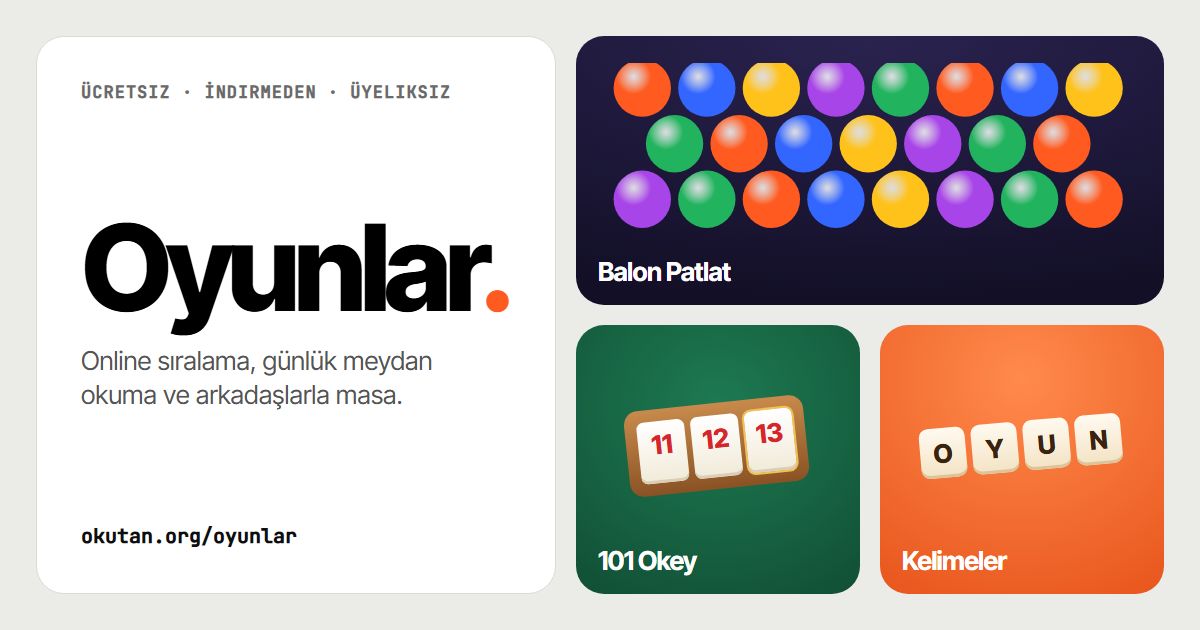
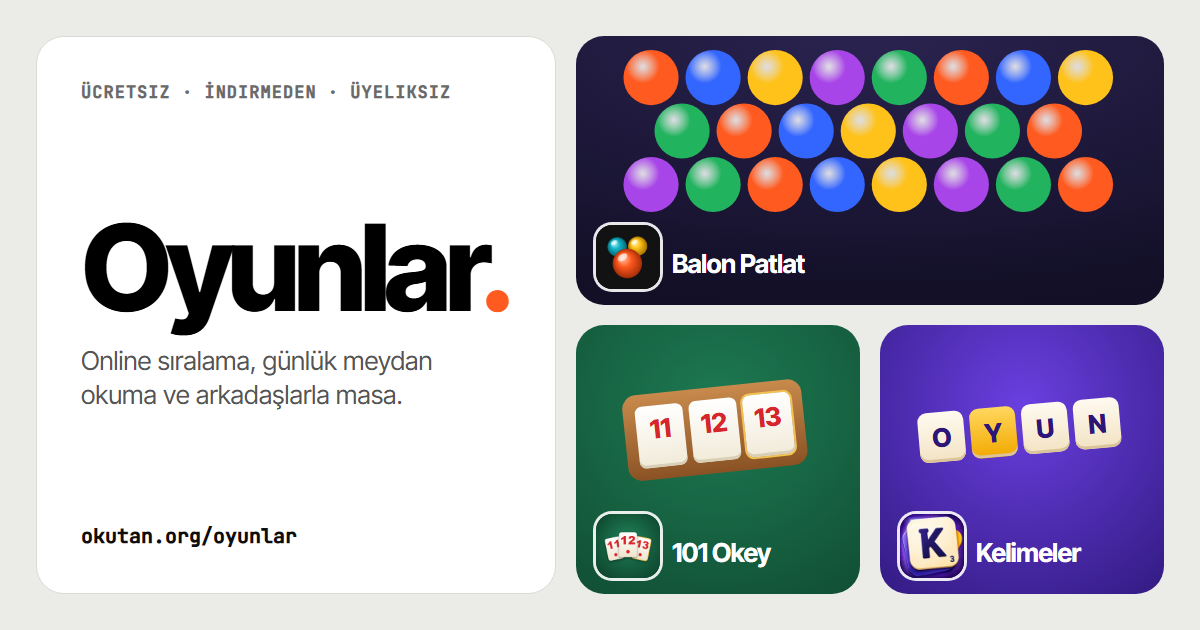
Oyunlar sayfası: gerçek uygulama simgeleri, simge kümesi, çizgi ikonlar, platform rozetleri, Kelimeler mor tema, toplam sayılar, yeni paylaşım görseli

Changed region(s): [[0.4933, 0.0603, 0.9558, 0.4825], [0.7092, 0.5127, 0.9867, 0.9651], [0.4933, 0.6032, 0.6783, 0.9349]]

diff --git a/oyunlar/index.html b/oyunlar/index.html
@@ -115,17 +115,41 @@ button{font:inherit;color:inherit}
 .intro h1 span{color:var(--accent)}
 .intro p{font-size:17px;color:var(--muted);max-width:520px}
 .facts{display:flex;gap:8px;flex-wrap:wrap}
-.facts span{font:600 12px var(--mono);padding:7px 11px;border-radius:999px;border:1px solid var(--line);background:var(--bg)}
+.facts span{display:inline-flex;align-items:center;gap:7px;font:600 12px var(--mono);padding:7px 12px 7px 10px;border-radius:999px;border:1px solid var(--line);background:var(--bg)}
+.i{width:16px;height:16px;flex:none;fill:none;stroke:currentColor;stroke-width:1.9;stroke-linecap:round;stroke-linejoin:round}
+.facts .i{color:var(--accent)}
+.i.st{fill:var(--gold);stroke:var(--gold);width:14px;height:14px}
+/* giriş simge kümesi */
+.intro{min-height:340px}
+.intro > *{position:relative}
+.intro > div:nth-child(2){min-height:200px}
+.cluster{position:absolute!important;right:30px;top:26px;width:250px;height:200px}
+.ci{position:absolute;width:104px;height:104px;border-radius:26px;overflow:hidden;box-shadow:0 22px 34px -18px rgba(0,0,0,.55),0 0 0 1px rgba(0,0,0,.06);transition:transform .4s cubic-bezier(.3,1.5,.5,1)}
+.ci img{width:100%;height:100%;display:block}
+.c1{left:0;top:62px;transform:rotate(-12deg);z-index:1}
+.c2{left:70px;top:6px;transform:rotate(6deg);z-index:2;width:118px;height:118px;border-radius:30px}
+.c3{left:146px;top:84px;transform:rotate(14deg);z-index:3}
+.cluster:hover .c1{transform:rotate(-4deg) translate(-8px,-6px)}.cluster:hover .c2{transform:rotate(0) translateY(-10px)}.cluster:hover .c3{transform:rotate(4deg) translate(8px,-4px)}
+.fx{position:absolute;font-style:normal;animation:fl 4s ease-in-out infinite}
+.f1{width:22px;height:22px;border-radius:50%;left:-16px;top:16px;background:radial-gradient(circle at 35% 30%,#fff,#ff8a5c 30%,#ff5a1f 65%);animation-delay:-1s}
+.f2{width:14px;height:14px;border-radius:50%;left:222px;top:6px;background:radial-gradient(circle at 35% 30%,#fff,#5fd3ff 30%,#12b4c8 65%);animation-delay:-2.5s}
+.f3{left:206px;top:196px;width:22px;height:30px;border-radius:5px;background:linear-gradient(#fff,#efe6d0);box-shadow:0 0 0 1.5px #f2c14e,0 6px 10px -4px rgba(0,0,0,.4);color:#1f4fd6;font:900 14px/30px var(--sans);text-align:center;rotate:12deg}
+.f4{left:44px;top:184px;width:26px;height:28px;border-radius:7px;background:linear-gradient(#fffaf0,#f3e3c4);box-shadow:0 6px 10px -4px rgba(0,0,0,.4);color:#2c1677;font:900 15px/28px var(--sans);text-align:center;animation-delay:-1.8s}
+@keyframes fl{50%{translate:0 -8px}}
 .pulse{background:#111;color:#f4f4f2;border-color:#222;display:flex;flex-direction:column;gap:14px;padding:26px}
 :root[data-theme="dark"] .pulse{background:#1a1a1a}
 .pulse .label{color:#9a9a9a}
 .pulse h2{font-size:22px;font-weight:800;letter-spacing:-.03em}
 .pl{list-style:none;display:flex;flex-direction:column;gap:8px}
 .pl li{display:grid;grid-template-columns:42px minmax(0,1fr) auto;gap:12px;align-items:center;padding:10px 12px;border-radius:14px;background:rgba(255,255,255,.05);border:1px solid rgba(255,255,255,.08)}
-.pl .ic{width:42px;height:42px;border-radius:12px;display:flex;align-items:center;justify-content:center;font-size:20px}
+.pl .ic{width:42px;height:42px;border-radius:11px;display:block;box-shadow:0 0 0 1px rgba(255,255,255,.1)}
 .pl b{display:block;font-size:14.5px}
 .pl small{display:block;font-size:12.5px;color:#a8a8a8;overflow:hidden;text-overflow:ellipsis;white-space:nowrap}
-.pl .v{font:700 13px var(--mono);color:var(--gold);white-space:nowrap}
+.pl .v{display:inline-flex;align-items:center;gap:4px;font:700 13px var(--mono);color:var(--gold);white-space:nowrap}
+.tot{margin-top:auto;display:grid;grid-template-columns:repeat(3,1fr);gap:8px;padding-top:6px}
+.tot div{display:flex;flex-direction:column;gap:2px;padding:12px;border-radius:14px;background:linear-gradient(160deg,rgba(255,90,31,.22),rgba(255,90,31,.04));border:1px solid rgba(255,90,31,.25)}
+.tot b{font-size:26px;font-weight:800;letter-spacing:-.03em;line-height:1}
+.tot span{font:500 10.5px var(--mono);text-transform:uppercase;letter-spacing:.05em;color:#a8a8a8}
 .dot{display:inline-block;width:8px;height:8px;border-radius:50%;background:#3ddc84;margin-right:6px;box-shadow:0 0 0 0 rgba(61,220,132,.6);animation:dp 1.8s infinite}
 @keyframes dp{70%{box-shadow:0 0 0 8px rgba(61,220,132,0)}100%{box-shadow:0 0 0 0 rgba(61,220,132,0)}}
 
@@ -136,17 +160,24 @@ button{font:inherit;color:inherit}
 .g{display:flex;flex-direction:column;padding:0;overflow:hidden;transition:transform .25s,border-color .25s,box-shadow .25s}
 .g:hover{transform:translateY(-4px);border-color:var(--ink);box-shadow:0 24px 40px -28px rgba(0,0,0,.45)}
 .art{height:220px;position:relative;display:flex;align-items:center;justify-content:center;overflow:hidden}
-.g .body{padding:22px 22px 20px;display:flex;flex-direction:column;gap:10px;flex:1}
+.g .body{padding:0 22px 20px;display:flex;flex-direction:column;gap:10px;flex:1}
+.head{display:flex;align-items:flex-end;gap:14px;margin-top:-30px;position:relative}
+.head .app{width:76px;height:76px;border-radius:20px;flex:none;border:4px solid var(--block);box-shadow:0 12px 22px -12px rgba(0,0,0,.6);background:var(--block);transition:transform .35s cubic-bezier(.3,1.5,.5,1)}
+.g:hover .head .app{transform:rotate(-6deg) scale(1.06)}
+.head > div{padding-bottom:2px;min-width:0}
+.head .label{font-size:11px}
 .g h3{font-size:26px;font-weight:800;letter-spacing:-.04em;line-height:1.05}
 .g p{color:var(--muted);font-size:15px}
-.feats{list-style:none;display:flex;flex-direction:column;gap:5px;font-size:14px}
-.feats li{display:flex;gap:8px}
-.feats li::before{content:"";flex:none;width:6px;height:6px;border-radius:50%;background:var(--accent);margin-top:9px}
-.live{font:600 12.5px var(--mono);color:var(--ok);min-height:19px}
+.feats{list-style:none;display:flex;flex-direction:column;gap:7px;font-size:14px}
+.feats li{display:flex;gap:10px;align-items:center}
+.feats .i{width:28px;height:28px;padding:6px;border-radius:9px;background:color-mix(in srgb,var(--accent) 12%,transparent);color:var(--accent);stroke-width:2}
+.live{display:flex;align-items:center;gap:6px;font:600 12.5px var(--mono);color:var(--ok);min-height:19px}
 .cta{margin-top:auto;display:flex;justify-content:space-between;align-items:center;gap:10px;padding-top:6px}
 .play{display:inline-flex;align-items:center;gap:8px;height:44px;padding:0 18px;border-radius:12px;background:var(--ink);color:var(--block);font-weight:700;font-size:15px;transition:background .2s}
+.play b{transition:transform .25s}.g:hover .play b{transform:translateX(4px)}
 .g:hover .play{background:var(--accent);color:#fff}
-.plat{font:500 11.5px var(--mono);color:var(--muted);text-transform:uppercase;letter-spacing:.05em;text-align:right}
+.plat{display:inline-flex;gap:6px;color:var(--muted)}
+.plat .i{width:34px;height:34px;padding:8px;border-radius:10px;border:1px solid var(--line);stroke-width:1.7}
 
 /* Balon sanatı */
 .art.bp{background:radial-gradient(120% 100% at 50% 0%,#2a2350,#120f26)}
@@ -164,27 +195,25 @@ button{font:inherit;color:inherit}
 .ot.k{color:#d7262b}.ot.m{color:#1f4fd6}.ot.s{color:#e98b00}.ot.y{color:#16171b}
 .ot.j{box-shadow:inset 0 -3px 0 #d9cfb6,0 0 0 2px #f2c14e,0 0 12px rgba(242,193,78,.6)}
 /* Kelimeler sanatı */
-.art.kl{background:radial-gradient(120% 120% at 50% 20%,#ff8a4c,#e2470f)}
+.art.kl{background:radial-gradient(90% 100% at 50% 30%,#6a3fe0,#2c1677)}
+.art.kl::before{content:"";position:absolute;inset:-50%;background:repeating-conic-gradient(from 0deg at 50% 45%,rgba(255,255,255,.07) 0 6deg,transparent 6deg 18deg)}
 .word{display:flex;gap:6px;transform:rotate(-4deg);transition:transform .35s}
 .word + .word{margin-top:8px;transform:rotate(-4deg) translateX(28px)}
 .g:hover .word{transform:rotate(0)}
 .g:hover .word + .word{transform:translateX(28px)}
-.lt{width:44px;height:48px;border-radius:9px;background:linear-gradient(#fffaf0,#f3e3c4);box-shadow:inset 0 -3px 0 #dcc49a,0 6px 12px -6px rgba(0,0,0,.5);display:flex;align-items:center;justify-content:center;position:relative;font:900 24px var(--sans);color:#3a2410}
+.lt{width:44px;height:48px;border-radius:9px;background:linear-gradient(#fffaf0,#f3e3c4);box-shadow:inset 0 -3px 0 #dcc49a,0 8px 14px -6px rgba(0,0,0,.6);display:flex;align-items:center;justify-content:center;position:relative;font:900 24px var(--sans);color:#2c1677}
+.lt.y{background:linear-gradient(#ffd75e,#f2a900);box-shadow:inset 0 -3px 0 #c98a00,0 8px 14px -6px rgba(0,0,0,.6)}
 .lt sup{position:absolute;right:5px;bottom:4px;font:700 10px var(--mono)}
-.kl-in{display:flex;flex-direction:column;align-items:flex-start}
-.appic{position:absolute;right:16px;top:16px;width:46px;height:46px;border-radius:12px;box-shadow:0 6px 16px -6px rgba(0,0,0,.5)}
+.kl-in{display:flex;flex-direction:column;align-items:flex-start;position:relative}
 
-/* küçük simgeler */
-.mb{width:22px;height:22px;border-radius:50%;background:radial-gradient(circle at 35% 30%,#fff 0,#ff8a5c 25%,#ff5a1f 60%);box-shadow:0 2px 4px rgba(0,0,0,.4)}
-.mb.big{width:32px;height:32px;box-shadow:13px -8px 0 -6px #ffc21a,-13px -8px 0 -6px #3366ff}
-.mt{width:20px;height:27px;border-radius:4px;background:linear-gradient(#fff,#efe6d0);color:#d7262b;font:900 12px/27px var(--sans);font-style:normal;text-align:center;box-shadow:0 0 0 1.5px #f2c14e}
-.mt.big{width:30px;height:40px;font-size:19px;line-height:40px;border-radius:6px}
-.ml{width:24px;height:26px;border-radius:6px;background:linear-gradient(#fffaf0,#f3e3c4);color:#3a2410;font:900 15px/26px var(--sans);font-style:normal;text-align:center}
 /* günlük */
 .daily{display:grid;grid-template-columns:repeat(2,minmax(0,1fr));gap:var(--gap)}
 .dc{display:grid;grid-template-columns:64px minmax(0,1fr) auto;gap:16px;align-items:center;transition:border-color .2s}
 .dc:hover{border-color:var(--ink)}
-.dc .ic{width:64px;height:64px;border-radius:16px;display:flex;align-items:center;justify-content:center;font-size:30px}
+.dc .ic{width:64px;height:64px;position:relative;display:block}
+.dc .ic img{width:64px;height:64px;border-radius:16px;display:block;box-shadow:0 10px 18px -10px rgba(0,0,0,.5)}
+.dd{position:absolute;right:-8px;bottom:-8px;width:30px;height:32px;border-radius:8px;background:var(--block);border:1px solid var(--line);box-shadow:0 4px 10px -4px rgba(0,0,0,.35);font:800 13px/1 var(--sans);font-style:normal;display:flex;align-items:flex-end;justify-content:center;padding-bottom:5px;overflow:hidden}
+.dd::before{content:"";position:absolute;left:0;right:0;top:0;height:8px;background:var(--accent)}
 .dc h3{font-size:19px;font-weight:800;letter-spacing:-.02em}
 .dc p{font-size:14px;color:var(--muted)}
 .dc .go{font:700 13px var(--mono);padding:9px 12px;border-radius:10px;border:1px solid var(--line);white-space:nowrap}
@@ -209,15 +238,16 @@ footer nav{display:flex;gap:16px;flex-wrap:wrap}
 footer a:hover{color:var(--ink)}
 
 @media (max-width:980px){.games{grid-template-columns:1fr 1fr}.games .g:last-child{grid-column:span 2}.games .g:last-child .art{height:180px}}
-@media (max-width:860px){.hero{grid-template-columns:1fr}.faq{grid-template-columns:1fr;gap:16px}}
+@media (max-width:860px){.hero{grid-template-columns:1fr}.intro{min-height:0}.faq{grid-template-columns:1fr;gap:16px}}
 @media (max-width:640px){
   .games{grid-template-columns:1fr}.games .g:last-child{grid-column:auto}
   .daily{grid-template-columns:1fr}
   .intro{padding:26px 22px}.faq{padding:22px}
-  .dc{grid-template-columns:52px minmax(0,1fr)}.dc .ic{width:52px;height:52px;font-size:24px}.dc .go{grid-column:1 / -1;text-align:center}
+  .dc{grid-template-columns:52px minmax(0,1fr)}.dc .ic,.dc .ic img{width:52px;height:52px}.dc .go{grid-column:1 / -1;text-align:center}
   .crumb{display:none}
   .sh h2{font-size:24px}
 }
+@media (max-width:640px){.cluster{position:relative!important;right:auto;top:auto;margin:0 auto -10px}.intro > div:nth-child(2){min-height:0}}
 @media (max-width:400px){.kl-in{transform:scale(.8)}.appic{width:38px;height:38px}}
 @media (prefers-reduced-motion:reduce){*{animation:none!important;transition:none!important}}
 </style>
@@ -235,21 +265,28 @@ footer a:hover{color:var(--ink)}
   <main>
     <section class="hero">
       <div class="b intro">
+        <div class="cluster" aria-hidden="true">
+          <a class="ci c1" href="/balon/" tabindex="-1"><img src="/balon/icon-192.png" width="96" height="96" alt="" decoding="async"></a>
+          <a class="ci c2" href="/101-okey/" tabindex="-1"><img src="/101-okey/icon-192.png" width="96" height="96" alt="" decoding="async"></a>
+          <a class="ci c3" href="/kelimeler/" tabindex="-1"><img src="/kelimeler/img/app-icon.webp" width="96" height="96" alt="" decoding="async"></a>
+          <i class="fx f1"></i><i class="fx f2"></i><i class="fx f3">7</i><i class="fx f4">A</i>
+        </div>
         <div>
           <div class="label">Ücretsiz · İndirmeden · Üyeliksiz</div>
           <h1 style="margin-top:14px">Oyunlar<span>.</span></h1>
         </div>
         <p>Kendi geliştirdiğim oyunlar. Tarayıcıda hemen aç, adını yaz, sıralamaya gir. Her gün yeni bir meydan okuma, arkadaşlarınla online masa ve Türkçe kelime düelloları.</p>
-        <div class="facts"><span>3 oyun</span><span>Online sıralama</span><span>Günlük meydan okuma</span><span>Telefona kurulur</span></div>
+        <div class="facts"><span><svg class="i" viewBox="0 0 24 24" aria-hidden="true"><path d="M12 3v11M7.5 9.5 12 14l4.5-4.5M4 17v2.5A1.5 1.5 0 0 0 5.5 21h13a1.5 1.5 0 0 0 1.5-1.5V17"/><path d="M3 3l18 18"/></svg>İndirme yok</span><span><svg class="i" viewBox="0 0 24 24" aria-hidden="true"><circle cx="12" cy="8" r="4"/><path d="M4 21a8 8 0 0 1 16 0"/></svg>Üyelik yok</span><span><svg class="i" viewBox="0 0 24 24" aria-hidden="true"><path d="M8 21h8M12 17v4M7 4h10v5a5 5 0 0 1-10 0V4zM17 5h3v2a3 3 0 0 1-3 3M7 5H4v2a3 3 0 0 0 3 3"/></svg>Online sıralama</span><span><svg class="i" viewBox="0 0 24 24" aria-hidden="true"><rect x="3" y="5" width="18" height="16" rx="2.5"/><path d="M3 10h18M8 3v4M16 3v4"/></svg>Günlük meydan okuma</span><span><svg class="i" viewBox="0 0 24 24" aria-hidden="true"><rect x="6.5" y="2" width="11" height="20" rx="2.8"/><path d="M12 7v7M9 11l3 3 3-3"/></svg>Telefona kurulur</span></div>
       </div>
       <aside class="b pulse" aria-labelledby="pulseTitle">
         <div class="label"><span class="dot" aria-hidden="true"></span>Şu an</div>
         <h2 id="pulseTitle">Oyunlarda neler oluyor?</h2>
         <ul class="pl">
-          <li><span class="ic" style="background:#2a2350"><i class="mb"></i></span><span><b>Balon Patlat</b><small id="pBp">Yükleniyor…</small></span><span class="v" id="pBpV"></span></li>
-          <li><span class="ic" style="background:#145c3d"><i class="mt">13</i></span><span><b>101 Okey</b><small id="pOk">Yükleniyor…</small></span><span class="v" id="pOkV"></span></li>
-          <li><span class="ic" style="background:#e2470f"><i class="ml">K</i></span><span><b>Kelimeler</b><small>iOS ve Android · Şehir Savaşları</small></span><span class="v">★ 4.8</span></li>
+          <li><img class="ic" src="/balon/icon-192.png" width="96" height="96" alt="" decoding="async"><span><b>Balon Patlat</b><small id="pBp">Yükleniyor…</small></span><span class="v" id="pBpV"></span></li>
+          <li><img class="ic" src="/101-okey/icon-192.png" width="96" height="96" alt="" decoding="async"><span><b>101 Okey</b><small id="pOk">Yükleniyor…</small></span><span class="v" id="pOkV"></span></li>
+          <li><img class="ic" src="/kelimeler/img/app-icon.webp" width="96" height="96" alt="" decoding="async"><span><b>Kelimeler</b><small>iOS ve Android · Şehir Savaşları</small></span><span class="v"><svg class="i st" viewBox="0 0 24 24" aria-hidden="true"><path d="m12 3 2.7 5.6 6.1.9-4.4 4.3 1 6.1L12 17l-5.4 2.9 1-6.1-4.4-4.3 6.1-.9z"/></svg>4.8</span></li>
         </ul>
+        <div class="tot"><div><b id="tBp">—</b><span>Balon oyunu</span></div><div><b id="tOk">—</b><span>Okey oyunu</span></div><div><b>60K+</b><span>Türkçe kelime</span></div></div>
       </aside>
     </section>
 
@@ -258,42 +295,38 @@ footer a:hover{color:var(--ink)}
       <a class="b g" href="/balon/">
         <div class="art bp" aria-hidden="true"><svg viewBox="0 0 290 200"><defs><radialGradient id="g0" cx=".35" cy=".3" r=".8"><stop offset="0" stop-color="#fff" stop-opacity=".85"/><stop offset=".38" stop-color="#ff5a1f"/><stop offset="1" stop-color="#ff5a1f"/></radialGradient><radialGradient id="g1" cx=".35" cy=".3" r=".8"><stop offset="0" stop-color="#fff" stop-opacity=".85"/><stop offset=".38" stop-color="#ffc21a"/><stop offset="1" stop-color="#ffc21a"/></radialGradient><radialGradient id="g2" cx=".35" cy=".3" r=".8"><stop offset="0" stop-color="#fff" stop-opacity=".85"/><stop offset=".38" stop-color="#22b35e"/><stop offset="1" stop-color="#22b35e"/></radialGradient><radialGradient id="g3" cx=".35" cy=".3" r=".8"><stop offset="0" stop-color="#fff" stop-opacity=".85"/><stop offset=".38" stop-color="#12b4c8"/><stop offset="1" stop-color="#12b4c8"/></radialGradient><radialGradient id="g4" cx=".35" cy=".3" r=".8"><stop offset="0" stop-color="#fff" stop-opacity=".85"/><stop offset=".38" stop-color="#3366ff"/><stop offset="1" stop-color="#3366ff"/></radialGradient><radialGradient id="g5" cx=".35" cy=".3" r=".8"><stop offset="0" stop-color="#fff" stop-opacity=".85"/><stop offset=".38" stop-color="#a845e8"/><stop offset="1" stop-color="#a845e8"/></radialGradient></defs><circle class="bb" cx="18" cy="18" r="16" fill="url(#g0)"/><circle class="bb" cx="54" cy="18" r="16" fill="url(#g1)"/><circle class="bb" cx="90" cy="18" r="16" fill="url(#g1)"/><circle class="bb" cx="126" cy="18" r="16" fill="url(#g3)"/><circle class="bb" cx="162" cy="18" r="16" fill="url(#g4)"/><circle class="bb" cx="198" cy="18" r="16" fill="url(#g2)"/><circle class="bb" cx="234" cy="18" r="16" fill="url(#g5)"/><circle class="bb" cx="270" cy="18" r="16" fill="url(#g0)"/><circle class="bb" cx="36" cy="49" r="16" fill="url(#g2)"/><circle class="bb" cx="72" cy="49" r="16" fill="url(#g0)"/><circle class="bb" cx="108" cy="49" r="16" fill="url(#g3)"/><circle class="bb" cx="144" cy="49" r="16" fill="url(#g3)"/><circle class="bb" cx="180" cy="49" r="16" fill="url(#g4)"/><circle class="bb" cx="216" cy="49" r="16" fill="url(#g1)"/><circle class="bb" cx="252" cy="49" r="16" fill="url(#g5)"/><circle class="bb" cx="18" cy="80" r="16" fill="url(#g4)"/><circle class="bb" cx="54" cy="80" r="16" fill="url(#g5)"/><circle class="bb" cx="90" cy="80" r="16" fill="url(#g2)"/><circle class="bb pp" cx="126" cy="80" r="16" fill="url(#g0)"/><circle class="bb pp" cx="162" cy="80" r="16" fill="url(#g0)"/><circle class="bb pp" cx="198" cy="80" r="16" fill="url(#g0)"/><circle class="bb" cx="234" cy="80" r="16" fill="url(#g3)"/><g opacity=".5" fill="#fff"><circle cx="146" cy="150" r="2.5"/><circle cx="148" cy="134" r="2.5"/><circle cx="150" cy="118" r="2.5"/><circle cx="152" cy="102" r="2.5"/></g><circle class="shot" cx="144" cy="176" r="16" fill="url(#g0)"/></svg></div>
         <div class="body">
-          <div class="label">Bulmaca · Nişancı</div>
-          <h3>Balon Patlat</h3>
+          <div class="head"><img class="app" src="/balon/icon-192.png" width="96" height="96" alt="" decoding="async"><div><div class="label">Bulmaca · Nişancı</div><h3>Balon Patlat</h3></div></div>
           <p>Aynı renkten üç balonu birleştir, tavandan kopanları düşür. Bombalı ve sürpriz balonlar, kombolar.</p>
-          <ul class="feats"><li>Klasik, günün bulmacası ve zamana karşı</li><li>Haftalık, aylık ve şehir sıralaması</li><li>Arkadaşına skor meydan okuması</li></ul>
+          <ul class="feats"><li><svg class="i" viewBox="0 0 24 24" aria-hidden="true"><circle cx="12" cy="13" r="8"/><path d="M12 9v4l2.5 2.5M9 2h6"/></svg>Klasik, günün bulmacası ve zamana karşı</li><li><svg class="i" viewBox="0 0 24 24" aria-hidden="true"><path d="M12 21s-7-6.2-7-11a7 7 0 0 1 14 0c0 4.8-7 11-7 11z"/><circle cx="12" cy="10" r="2.5"/></svg>Haftalık, aylık ve şehir sıralaması</li><li><svg class="i" viewBox="0 0 24 24" aria-hidden="true"><path d="M10 14a4 4 0 0 0 5.66 0l3-3a4 4 0 0 0-5.66-5.66l-1 1M14 10a4 4 0 0 0-5.66 0l-3 3a4 4 0 0 0 5.66 5.66l1-1"/></svg>Arkadaşına skor meydan okuması</li></ul>
           <div class="live" id="lBp" aria-live="polite"></div>
-          <div class="cta"><span class="play">Oyna →</span><span class="plat">Tarayıcı<br>Masaüstü · Mobil</span></div>
+          <div class="cta"><span class="play">Oyna <b>→</b></span><span class="plat" title="Tarayıcıda: masaüstü ve mobil"><svg class="i" viewBox="0 0 24 24" aria-hidden="true"><rect x="2.5" y="4" width="19" height="16" rx="2.5"/><path d="M2.5 9h19"/><circle cx="6" cy="6.5" r=".6"/><circle cx="8.5" cy="6.5" r=".6"/></svg><svg class="i" viewBox="0 0 24 24" aria-hidden="true"><rect x="6.5" y="2" width="11" height="20" rx="2.8"/><path d="M10.5 18.5h3"/></svg></span></div>
         </div>
       </a>
 
       <a class="b g" href="/101-okey/">
         <div class="art ok" aria-hidden="true"><div class="rack"><i class="ot k">10</i><i class="ot k">11</i><i class="ot k">12</i><i class="ot k">13</i><i class="ot m j">7</i><i class="ot s">5</i><i class="ot y">5</i><i class="ot k">5</i></div></div>
         <div class="body">
-          <div class="label">Taş oyunu · Kahvehane kuralları</div>
-          <h3>101 Okey</h3>
+          <div class="head"><img class="app" src="/101-okey/icon-192.png" width="96" height="96" alt="" decoding="async"><div><div class="label">Taş oyunu · Kahvehane</div><h3>101 Okey</h3></div></div>
           <p>101 ile el aç, çifte git, taş işle, okeyi al. Gösterge, okey ve cezalarıyla gerçek 101.</p>
-          <ul class="feats"><li>Kolay, orta ve zor botlar</li><li>Arkadaşlarla online masa, davet bağlantısı</li><li>Herkese aynı günlük el ve sıralama</li></ul>
+          <ul class="feats"><li><svg class="i" viewBox="0 0 24 24" aria-hidden="true"><rect x="4" y="8" width="16" height="12" rx="3.5"/><path d="M12 4v4M9 13.5v1M15 13.5v1M9.5 17.5h5"/><circle cx="12" cy="3.5" r="1"/></svg>Kolay, orta ve zor botlar</li><li><svg class="i" viewBox="0 0 24 24" aria-hidden="true"><circle cx="9" cy="8" r="3.5"/><path d="M2.5 20a6.5 6.5 0 0 1 13 0M16 4.5a3.5 3.5 0 0 1 0 7M18 14a6 6 0 0 1 3.5 6"/></svg>Arkadaşlarla online masa, davet bağlantısı</li><li><svg class="i" viewBox="0 0 24 24" aria-hidden="true"><rect x="3" y="5" width="18" height="16" rx="2.5"/><path d="M3 10h18M8 3v4M16 3v4"/></svg>Herkese aynı günlük el ve sıralama</li></ul>
           <div class="live" id="lOk" aria-live="polite"></div>
-          <div class="cta"><span class="play">Oyna →</span><span class="plat">Tarayıcı<br>Masaüstü · Mobil</span></div>
+          <div class="cta"><span class="play">Oyna <b>→</b></span><span class="plat" title="Tarayıcıda: masaüstü ve mobil"><svg class="i" viewBox="0 0 24 24" aria-hidden="true"><rect x="2.5" y="4" width="19" height="16" rx="2.5"/><path d="M2.5 9h19"/><circle cx="6" cy="6.5" r=".6"/><circle cx="8.5" cy="6.5" r=".6"/></svg><svg class="i" viewBox="0 0 24 24" aria-hidden="true"><rect x="6.5" y="2" width="11" height="20" rx="2.8"/><path d="M10.5 18.5h3"/></svg></span></div>
         </div>
       </a>
 
       <a class="b g" href="/kelimeler/">
         <div class="art kl" aria-hidden="true">
-          <img class="appic" src="/kelimeler/img/app-icon.webp" width="46" height="46" alt="" loading="lazy">
           <div class="kl-in">
-            <div class="word"><span class="lt">K<sup>1</sup></span><span class="lt">E<sup>1</sup></span><span class="lt">L<sup>1</sup></span><span class="lt">İ<sup>1</sup></span><span class="lt">M<sup>2</sup></span><span class="lt">E<sup>1</sup></span></div>
+            <div class="word"><span class="lt">K<sup>1</sup></span><span class="lt">E<sup>1</sup></span><span class="lt">L<sup>1</sup></span><span class="lt">İ<sup>1</sup></span><span class="lt y">M<sup>2</sup></span><span class="lt">E<sup>1</sup></span></div>
             <div class="word"><span class="lt">O<sup>2</sup></span><span class="lt">Y<sup>3</sup></span><span class="lt">U<sup>2</sup></span><span class="lt">N<sup>1</sup></span></div>
           </div>
         </div>
         <div class="body">
-          <div class="label">Kelime · Çok oyunculu</div>
-          <h3>Kelimeler</h3>
+          <div class="head"><img class="app" src="/kelimeler/img/app-icon.webp" width="96" height="96" alt="" decoding="async"><div><div class="label">Kelime · Çok oyunculu</div><h3>Kelimeler</h3></div></div>
           <p>Türkçe kelime oyunu: harfleri diz, bonus karelerle puanı katla, rakibini geç.</p>
-          <ul class="feats"><li>60.000+ Türkçe kelime</li><li>Şehir Savaşları ve Günün Bulmacası</li><li>Arkadaşlarınla online maç</li></ul>
-          <div class="live">★ 4.8 · App Store</div>
-          <div class="cta"><span class="play">İncele →</span><span class="plat">iOS<br>Android</span></div>
+          <ul class="feats"><li><svg class="i" viewBox="0 0 24 24" aria-hidden="true"><path d="M4 5.5A2.5 2.5 0 0 1 6.5 3H20v15H6.5A2.5 2.5 0 0 0 4 20.5v-15z"/><path d="M4 20.5A2.5 2.5 0 0 0 6.5 23H20v-5M8.5 7.5h7M8.5 11h4.5"/></svg>60.000+ Türkçe kelime</li><li><svg class="i" viewBox="0 0 24 24" aria-hidden="true"><path d="M14.5 17.5 3 6V3h3l11.5 11.5M13 19l6-6M16 16l4 4M19 21l2-2M9.5 6.5 14 2h3v3l-4.5 4.5M5 14l-2 2 2 2 2-2"/></svg>Şehir Savaşları ve Günün Bulmacası</li><li><svg class="i" viewBox="0 0 24 24" aria-hidden="true"><circle cx="9" cy="8" r="3.5"/><path d="M2.5 20a6.5 6.5 0 0 1 13 0M16 4.5a3.5 3.5 0 0 1 0 7M18 14a6 6 0 0 1 3.5 6"/></svg>Arkadaşlarınla online maç</li></ul>
+          <div class="live"><svg class="i st" viewBox="0 0 24 24" aria-hidden="true"><path d="m12 3 2.7 5.6 6.1.9-4.4 4.3 1 6.1L12 17l-5.4 2.9 1-6.1-4.4-4.3 6.1-.9z"/></svg>4.8 · App Store</div>
+          <div class="cta"><span class="play">İncele <b>→</b></span><span class="plat" title="iOS ve Android"><svg class="i" viewBox="0 0 24 24" aria-hidden="true" style="fill:currentColor;stroke:none"><path d="M16.4 12.6c0-2.4 2-3.6 2.1-3.7-1.2-1.7-3-1.9-3.6-2-1.5-.2-3 .9-3.8.9-.8 0-2-.9-3.3-.9-1.7 0-3.2 1-4.1 2.5-1.8 3-.5 7.5 1.3 10 .8 1.2 1.8 2.6 3.1 2.5 1.2 0 1.7-.8 3.2-.8s1.9.8 3.2.8c1.3 0 2.2-1.2 3-2.4.9-1.4 1.3-2.7 1.3-2.8 0 0-2.5-1-2.5-4.1zM14 5.3c.7-.8 1.1-1.9 1-3-1 0-2.2.7-2.9 1.5-.6.7-1.2 1.8-1 2.9 1.1.1 2.2-.6 2.9-1.4z"/></svg><svg class="i" viewBox="0 0 24 24" aria-hidden="true" style="fill:currentColor;stroke:none"><path d="M6 18a1 1 0 0 0 1 1h1v3a1.5 1.5 0 0 0 3 0v-3h2v3a1.5 1.5 0 0 0 3 0v-3h1a1 1 0 0 0 1-1V8H6v10zM3.5 8A1.5 1.5 0 0 0 2 9.5v6a1.5 1.5 0 0 0 3 0v-6A1.5 1.5 0 0 0 3.5 8zm17 0A1.5 1.5 0 0 0 19 9.5v6a1.5 1.5 0 0 0 3 0v-6A1.5 1.5 0 0 0 20.5 8zM15.5 2.2l1.3-1.3a.5.5 0 0 0-.7-.7l-1.5 1.5A6 6 0 0 0 12 1c-1 0-1.9.2-2.7.6L7.9.2a.5.5 0 0 0-.7.7l1.3 1.3A6 6 0 0 0 6 7h12a6 6 0 0 0-2.5-4.8zM10 5H9V4h1v1zm5 0h-1V4h1v1z"/></svg></span></div>
         </div>
       </a>
     </section>
@@ -301,12 +334,12 @@ footer a:hover{color:var(--ink)}
     <div class="sh"><h2>Bugünün meydan okumaları</h2><span class="label" id="today">—</span></div>
     <section class="daily" aria-label="Günlük meydan okumalar">
       <a class="b dc" href="/balon/">
-        <span class="ic" style="background:#2a2350"><i class="mb big"></i></span>
+        <span class="ic"><img src="/balon/icon-192.png" width="96" height="96" alt="" decoding="async"><i class="dd"></i></span>
         <span><h3>Günün bulmacası</h3><p>Herkese aynı balon dizilimi, günde tek deneme. Balon Patlat'ta “Günün bulmacası” modunu seç.</p><span class="st" id="dBp"></span></span>
         <span class="go">Balon Patlat →</span>
       </a>
       <a class="b dc" href="/101-okey/">
-        <span class="ic" style="background:#145c3d"><i class="mt big">1</i></span>
+        <span class="ic"><img src="/101-okey/icon-192.png" width="96" height="96" alt="" decoding="async"><i class="dd"></i></span>
         <span><h3>Günün eli</h3><p>Herkese aynı dağıtım, orta botlara karşı tek el. En düşük puan zirveye çıkar.</p><span class="st" id="dOk"></span></span>
         <span class="go">101 Okey →</span>
       </a>
@@ -350,6 +383,7 @@ footer a:hover{color:var(--ink)}
   // günlük durum (bu tarayıcıda oynandı mı)
   if (ls('okey_daily_' + day)) { $('dOk').textContent = '✓ Bugünkü eli oynadın'; $('dOk').classList.add('done'); }
   else $('dOk').textContent = 'Bugün henüz oynamadın';
+  document.querySelectorAll('.dd').forEach(function (e) { e.textContent = String(+day.slice(8)); });
   $('dBp').textContent = 'Her gün 00:00\'da yenilenir';
 
   function bp() {
@@ -358,6 +392,7 @@ footer a:hover{color:var(--ink)}
       var top = j.all && j.all[0];
       $('pBp').textContent = j.online > 0 ? j.online + ' kişi şu an oynuyor' : top ? 'Rekor: ' + top.name : 'İlk rekoru sen kır';
       $('pBpV').textContent = top ? fmt(top.score) : '';
+      $('tBp').textContent = fmt(j.plays || 0);
       $('lBp').innerHTML = j.online > 0 ? '● ' + j.online + ' kişi şu an oynuyor' : j.plays > 0 ? fmt(j.plays) + ' kez oynandı' : '';
     }).catch(function () { $('pBp').textContent = 'Klasik, günlük ve zamana karşı'; });
   }
@@ -367,6 +402,7 @@ footer a:hover{color:var(--ink)}
       var w = j.week && j.week[0], d = j.daily && j.daily[0];
       $('pOk').textContent = w ? 'Haftanın lideri: ' + w.name : d ? 'Günün eli lideri: ' + d.name : 'Bu haftanın ilk galibi sen ol';
       $('pOkV').textContent = w ? w.wins + ' galibiyet' : d ? fmt(d.score) + ' puan' : '';
+      $('tOk').textContent = fmt(j.games || 0);
       $('lOk').textContent = j.games > 0 ? fmt(j.games) + ' oyun oynandı' : '';
     }).catch(function () { $('pOk').textContent = 'Botlar, günlük el ve online masa'; });
   }
